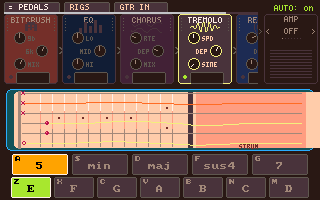
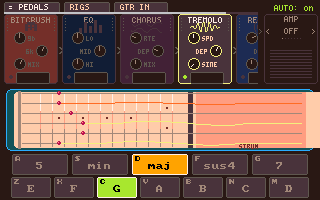
pedalboard: boot on G major instead of the E5 power chord
sel_shape 0 -> 2   SHAPE_NAME[2] = "maj"
  sel_root  0 -> 2   ROOT_NAME[2]  = "G"  (ROOT_FRET 3)

A first strum should sound like a CHORD. The old default opened on the "5"
shape, which is a bare fifth with no third AND damps three of the six strings
-- so the cart's first noise was two pitches and three thuds. maj rings all
six: G2 D3 G3 B3 D4 G4, intervals 0/4/7, a plain G major.

It also improves what you SEE on load. The E5 default put every marker on the
nut (open low E plus three X's); the G barre puts real dots out at frets 3-5,
so the fretboard, the inlays and the fret wires all read immediately -- which
is most of what the last few commits were about.

Verified the voicing by computing it from the cart's own OPEN/ROOT_FRET/SHAPE_F
tables rather than trusting the index arithmetic: 0,4,7 with zero damped
strings. tools/clips/pedalboard/01-chain.script is unaffected -- it drives
autoplay and never presses a root or shape key.

ui-audit clean, lint-carts clean, rebaked.

diff --git a/tools/carts/pedalboard.c b/tools/carts/pedalboard.c
@@ -279,8 +279,12 @@ static const char  ROOT_KEY[NROOT]    = { 'Z', 'X', 'C', 'V', 'B', 'N', 'M' };
 // …and where a FINGER goes: behind the wire, in the middle of the fret space. Putting the dot on
 // FRET_WIRE(f) draws it sitting on the wire itself, which is not how anyone frets a note.
 #define FRET_X(f) ((FRET_WIRE(f) + FRET_WIRE((f) - 1)) / 2 + 1)
-static int  sel_shape = 0;
-static int  sel_root  = 0;
+// Boot on G MAJOR, not the E5 power chord it used to open with. A first strum should sound like a
+// chord: maj rings all six strings (barre at fret 3 = G B D), where the "5" shape damps three of
+// them, so the old default led with a bare fifth AND with half the neck muted. It also puts dots
+// out at frets 3-5 instead of parking everything on the nut, so the fretboard shows what it does.
+static int  sel_shape = 2;   // SHAPE_NAME[2] = "maj"
+static int  sel_root  = 2;   // ROOT_NAME[2]  = "G"  (ROOT_FRET 3)
 static int  str_midi[NSTR];
 
 static float amp[NSTR];
